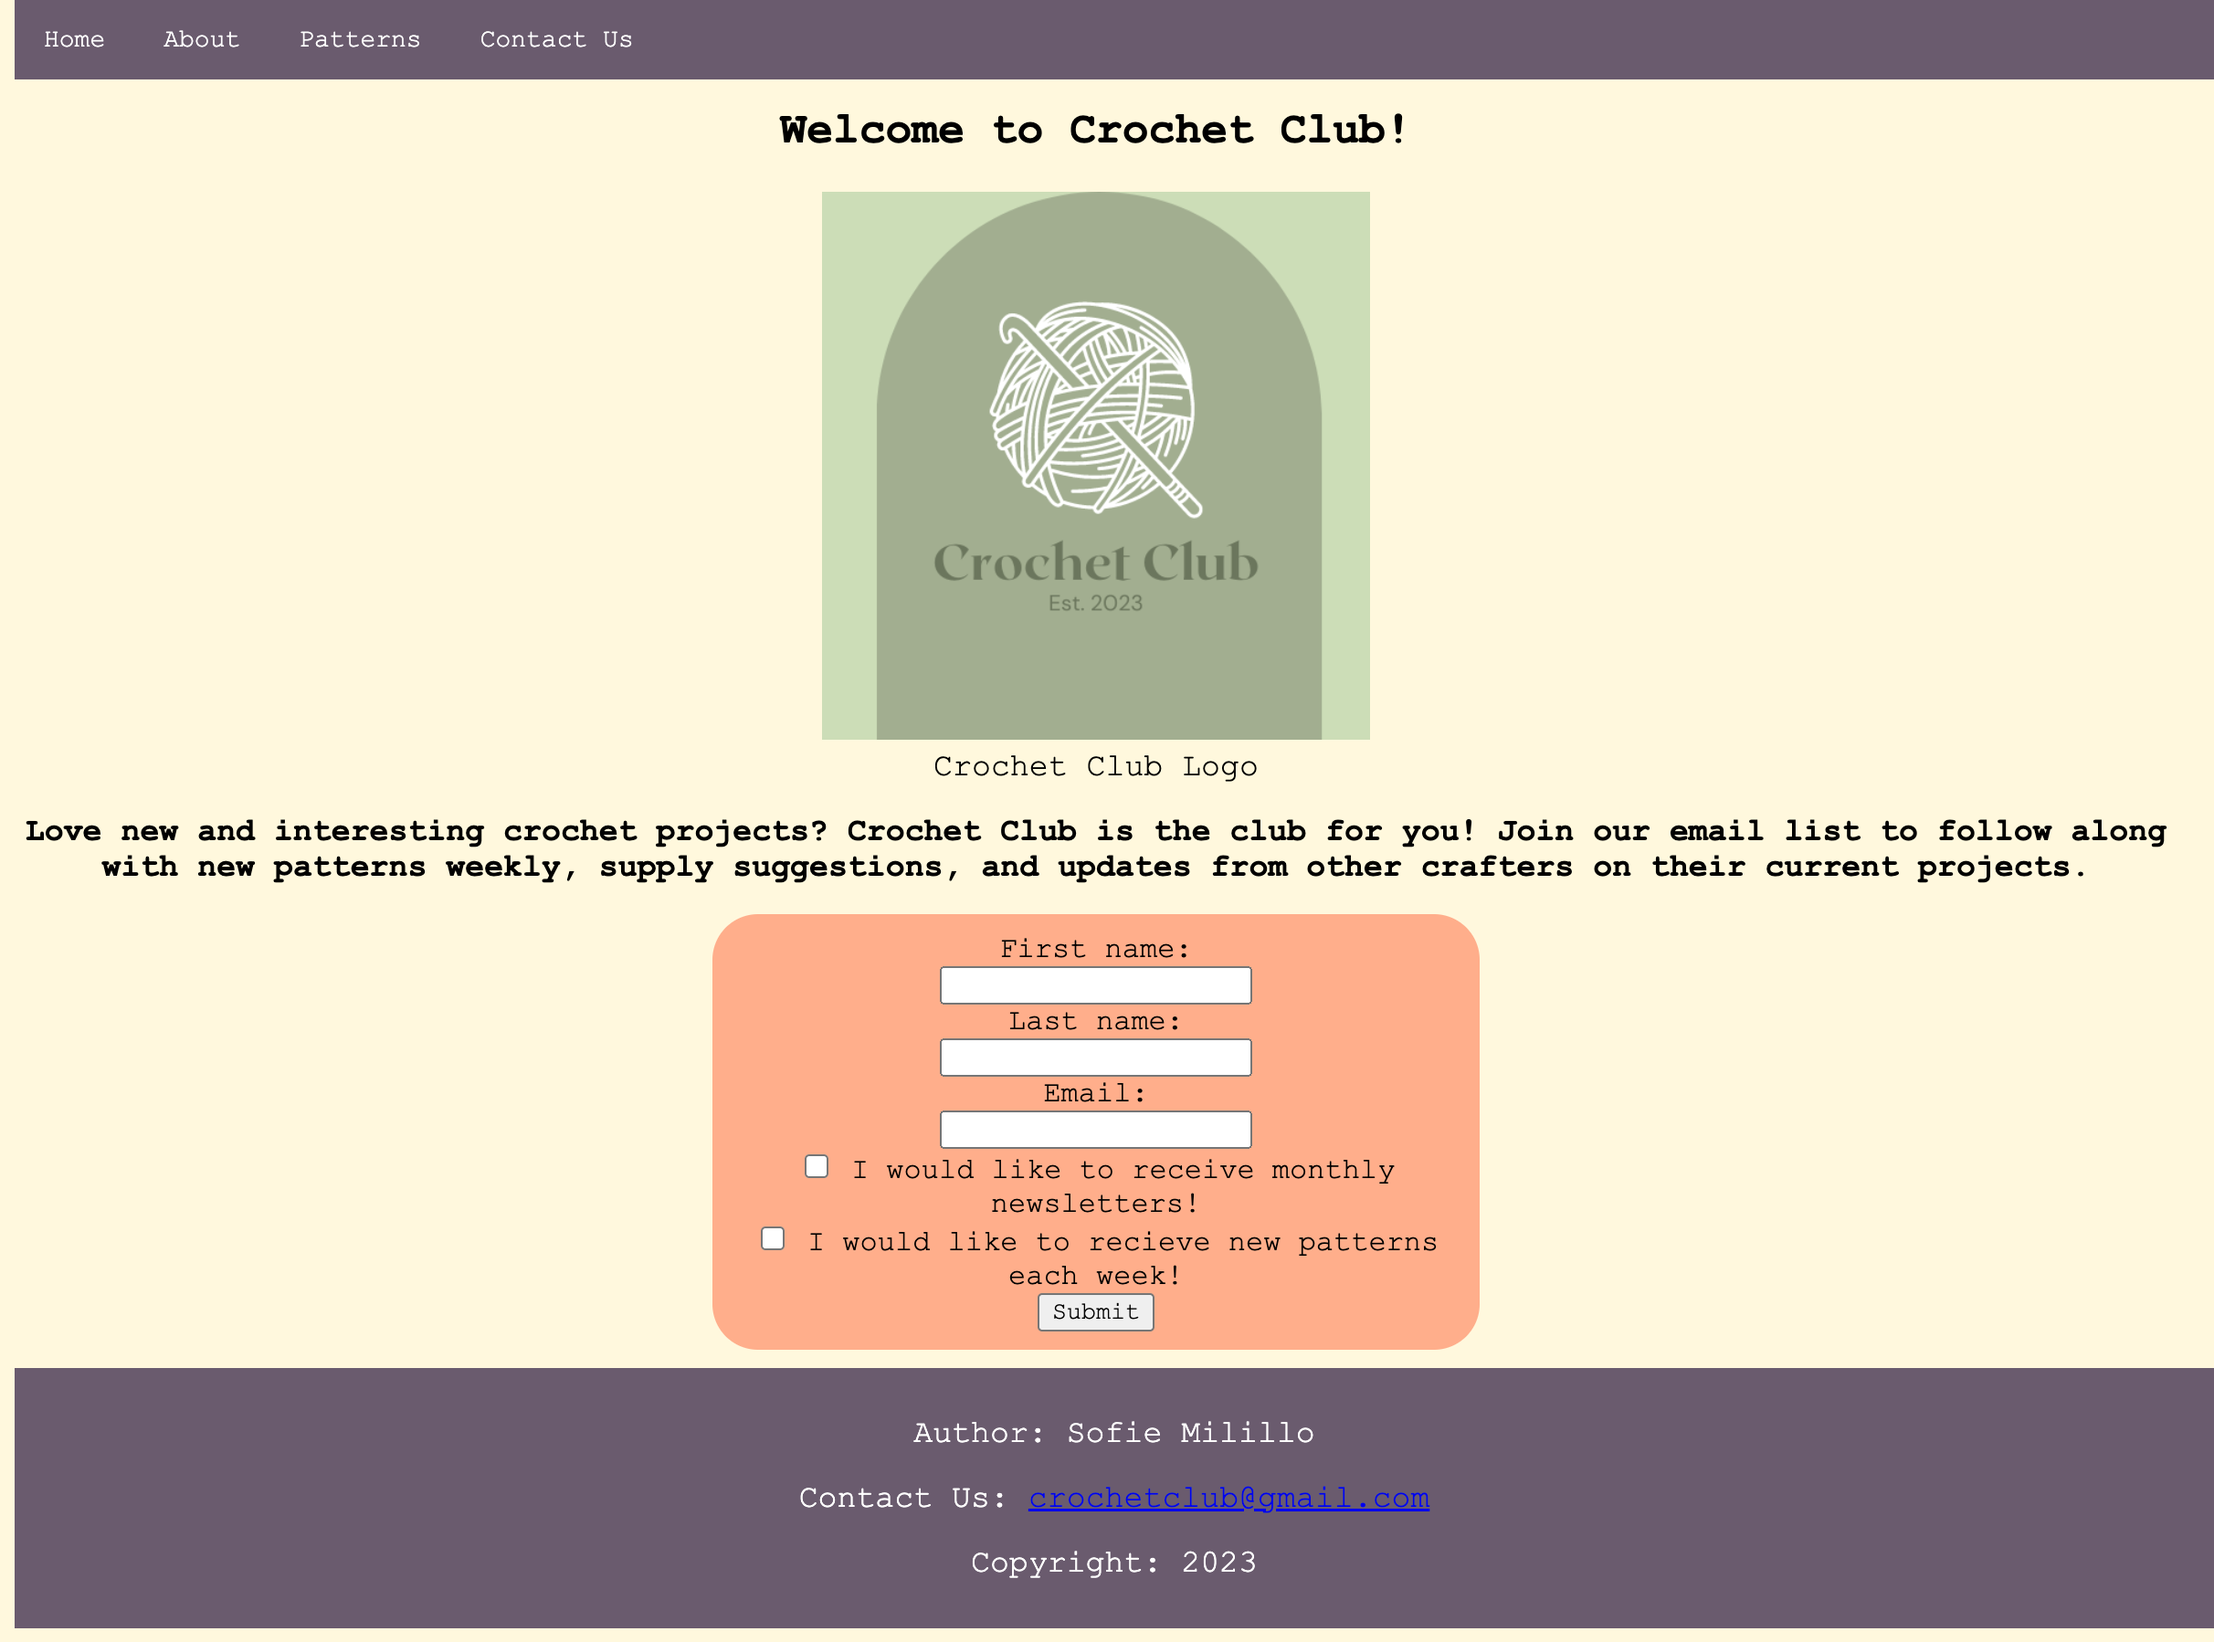
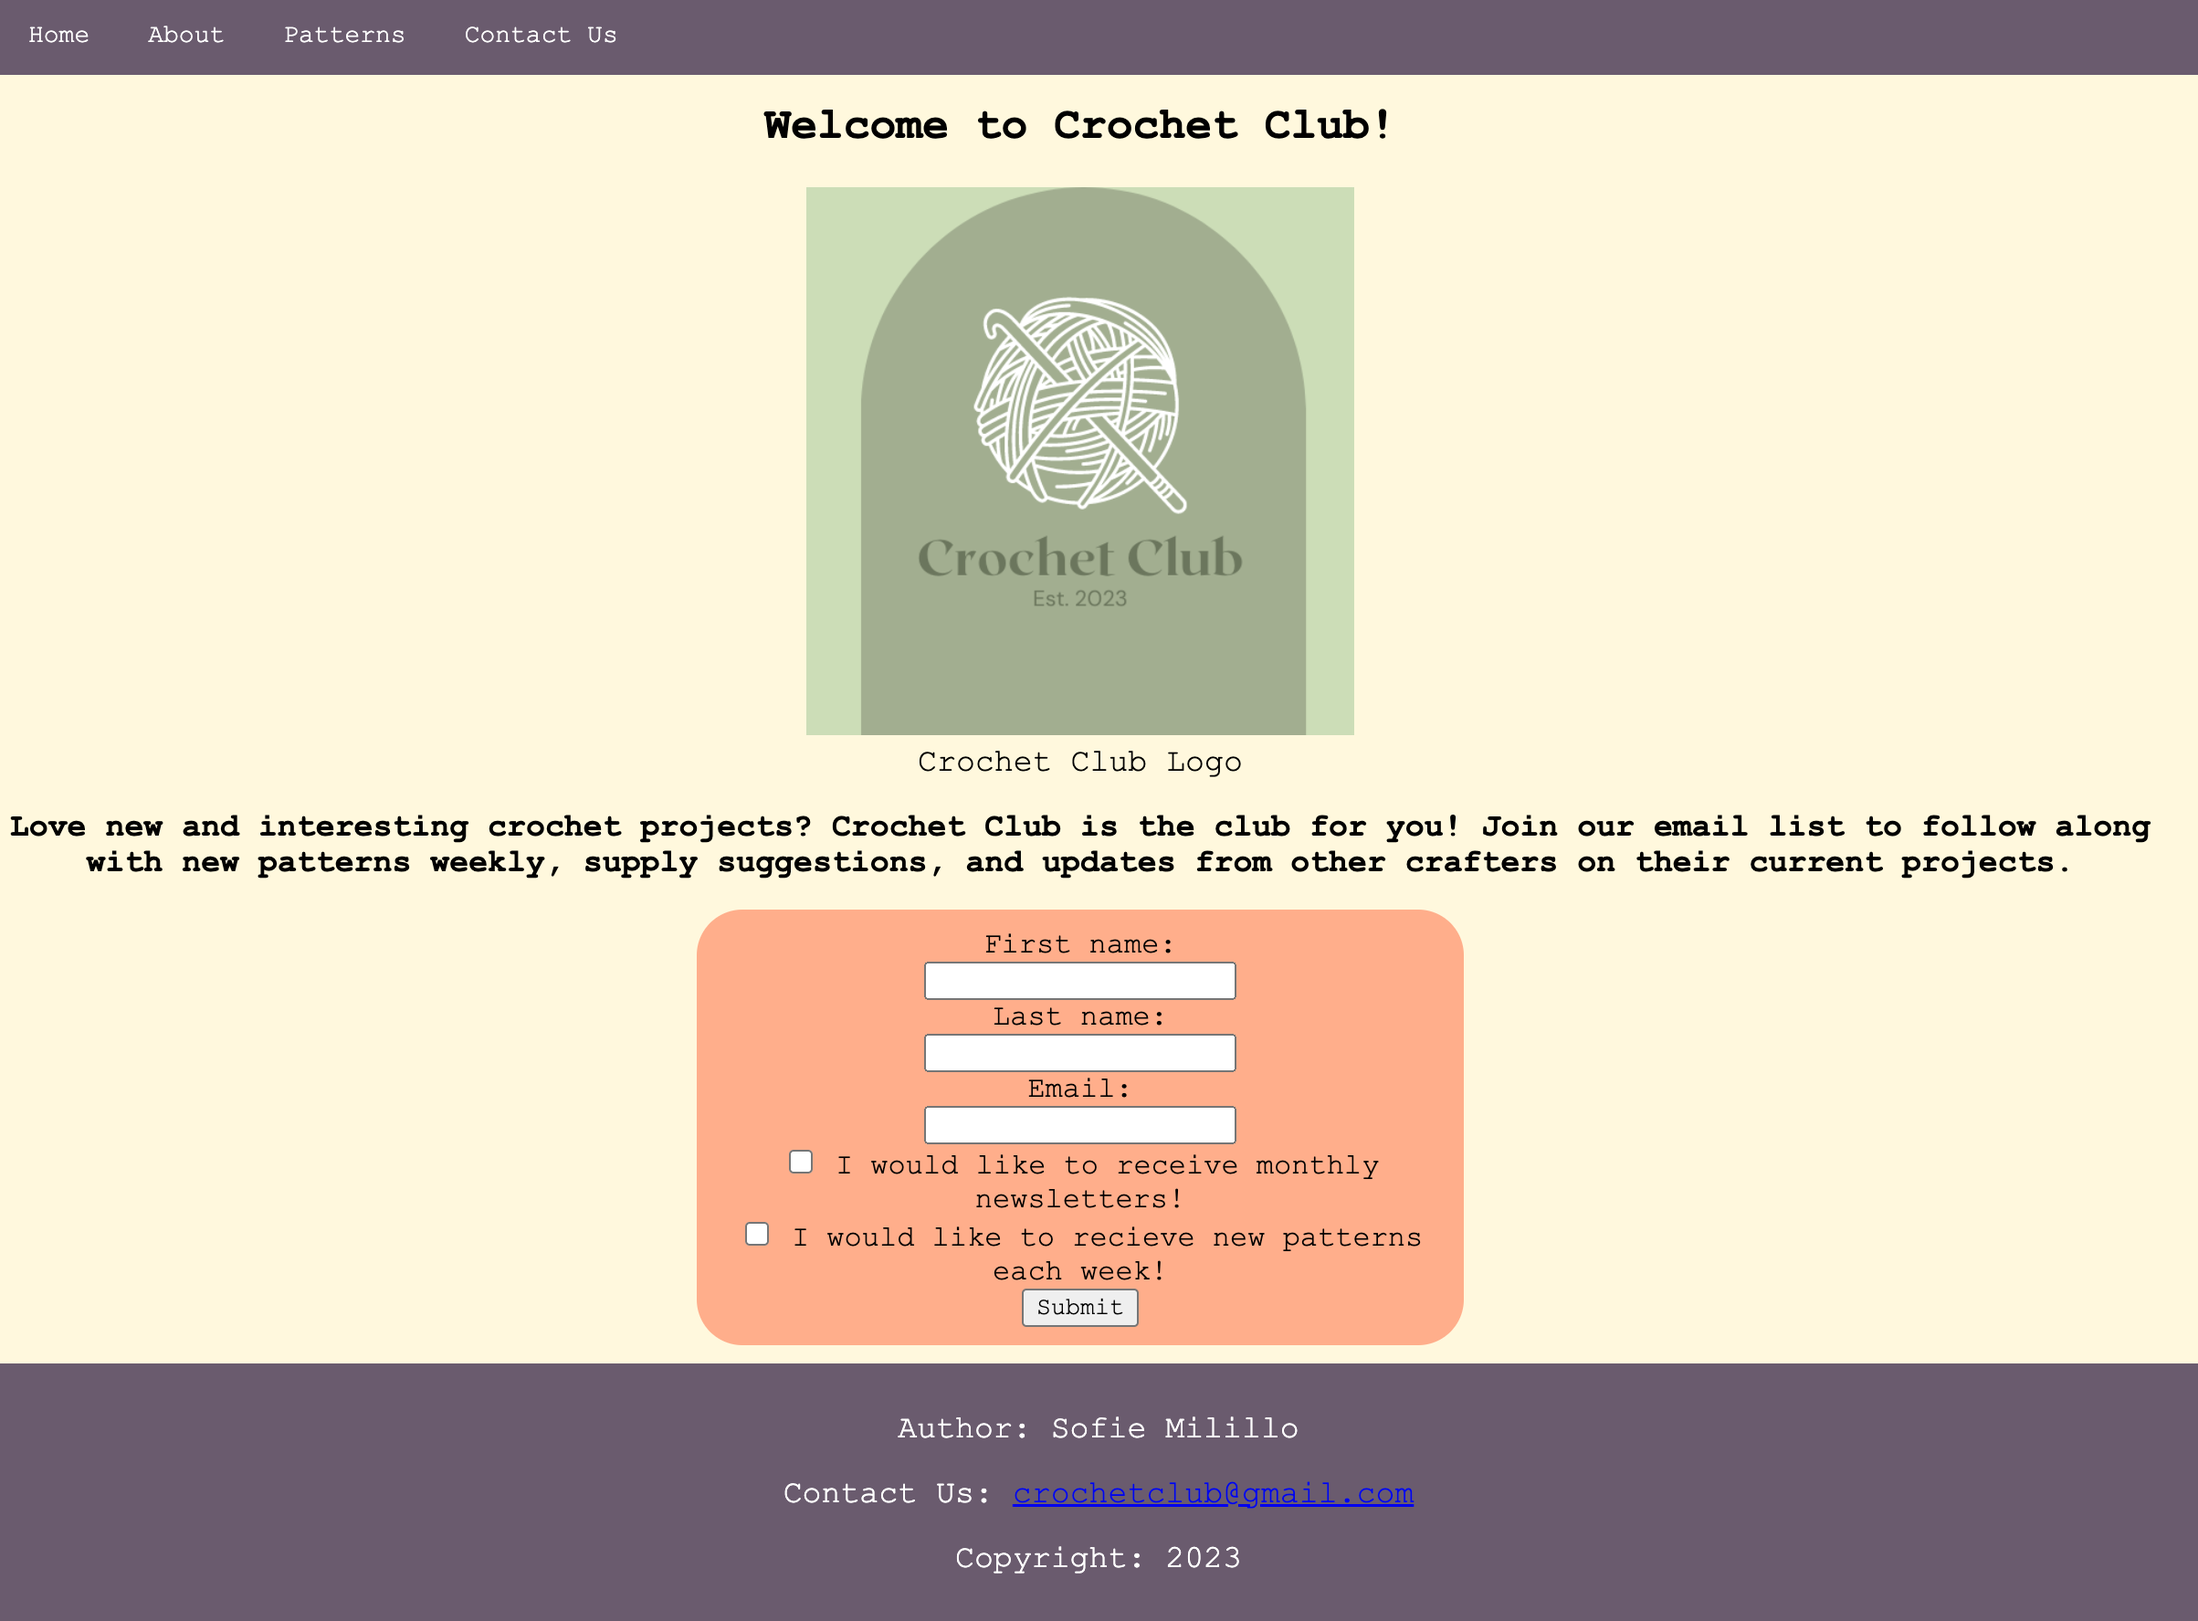
final push for the night

diff --git a/assets/css/style.css b/assets/css/style.css
@@ -1,54 +1,68 @@
 :root {
     --main-text: rgb(76, 93, 119);
-    --header-text: rgb(148, 208, 203);
-
-
+    --primary: rgb(148, 208, 203);
+    --secondary: rgb(47, 48, 54);
 }
 
 * {
-    font-family: 'Gill Sans MT', Calibri, 'Trebuchet MS', sans-serif;
     box-sizing: border-box;
     padding: 0;
     margin: 0;
 }
 
 body {
-
+    font-family: 'Gill Sans MT', Calibri, 'Trebuchet MS', sans-serif;
 }
 
 p {
-
+    font-size: 16px;
 }
 
 a {
-
     text-decoration: none;
 }
 
 /* Header */
 header {
-background-color: rgb(47, 48, 54);
-display: flex;
+    background-color: var(--secondary);
+    display: flex;
+    padding: 20px;
 }
 
-nav {
- color: var(--header-text);
+header h1 {
+    background-color: var(--primary);
+    padding: 10px 10px;
 }
 
-nav a:hover {
-
+/* Nav */
+header nav {
+ padding: 10px;
 }
 
-nav ul {
+header nav ul {
     list-style-type: none;
+    display: flex;
 }
 
-h1 {
-    background-color: var(--header-text);
-    
+header nav ul li {
+    margin: 10px;
 }
 
-h2 {
+header nav ul li a {
+    color: var(--primary);
+}
+
+/* Banner */
+div {
+}
+
+div h2 {
+    background-color: var(--primary);
+}
+
+/* Main Content */
+h3 {
+    font-size: 36px;
     color:var(--main-text);
     border-right: solid var(--main-text);
     padding: 10px;
@@ -63,24 +77,44 @@ h2 {
     justify-content: space-between;
 }
 
+/* About Me */
 #about-me {
-
+    display: flex;
 }
 
+#about-me p {
+    
+}
+
+/* Work */
 #work {
 
 }
 
-#work #card-1 {
-    max-width: 700px;
-}
-
 #work .card {
-    max-width: 350px;
+    max-width: 33%;
+    border: var(--primary) solid 5px;
+    flex-direction: column;
+    flex: 1;
 }
 
+#work #card-1 {
+    max-width: 66%;
+}
+
+/* Contact Me */
 #contact-me ul{
     list-style-type: none;
+    display: flex;
 }
 
-@media
+#contact-me ul li a {
+    color: var(--main-text)
+}
+
+/* Media Queries */
+@media screen and (max-width: 768px) {
+    header, nav ul {
+        flex-direction: column;
+    }
+}

diff --git a/index.html b/index.html
@@ -36,20 +36,21 @@
       <!-- Personal Image -->
       <img src="https://via.placeholder.com/200" alt="placeholder image"/>
       <!-- Subtitle -->
+      <h2>Cool Subtitle Here</h2>
     </div>
 
     <!-- About Me -->
     <section class="page-section" id="about-me">
-      <h2>About Me</h2>
+      <h3>About Me</h3>
 
       <!-- Paragraph -->
-      <p>This is a paragraph.</p>
+      <p>Welcome to my portfolio! My name is Sofia (Sofie) Milillo.</p>
       <p>This is a paragraph with <strong>BOLDED TEXT</strong>.</p>
     </section>
   
     <!-- Work -->
     <section class="page-section" id="work">
-      <h2>Work</h2>
+      <h3>Work</h3>
         <!-- Work Links -->
       <a href="https://smilillo.github.io/01-challenge/" target="_blank"><img class="card" id="card-1" src="./assets/images/horiseon-screenshot.png"></a>
       <a href="https://smilillo.github.io/01-mini-project/" target="_blank"><img class="card" src="./assets/images/crochet-club-miniproject.png"></a>
@@ -58,7 +59,7 @@
   
     <!-- Contact Me -->
     <section class="page-section" id="contact-me">
-      <h2>Contact Me</h2>
+      <h3>Contact Me</h3>
         <ul>
           <li>
             <a href="tel:6142643120">614-264-3120</a>
